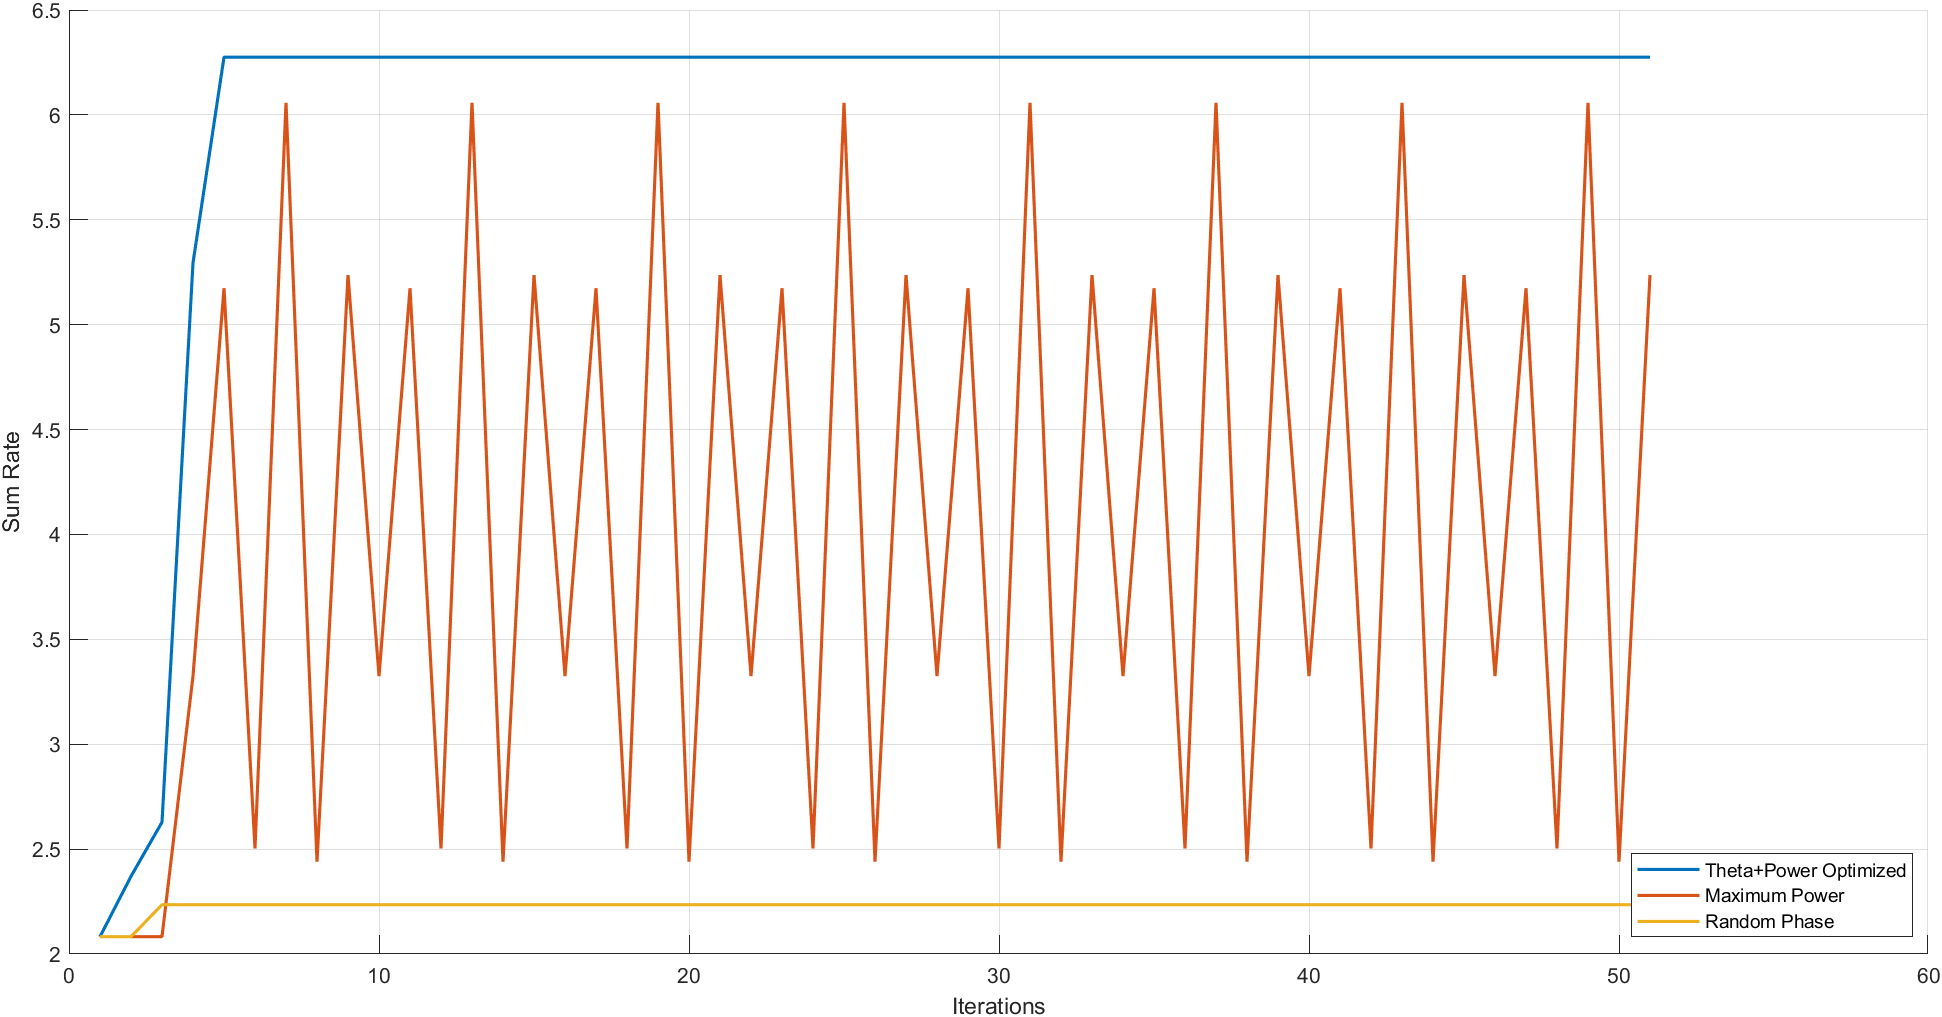
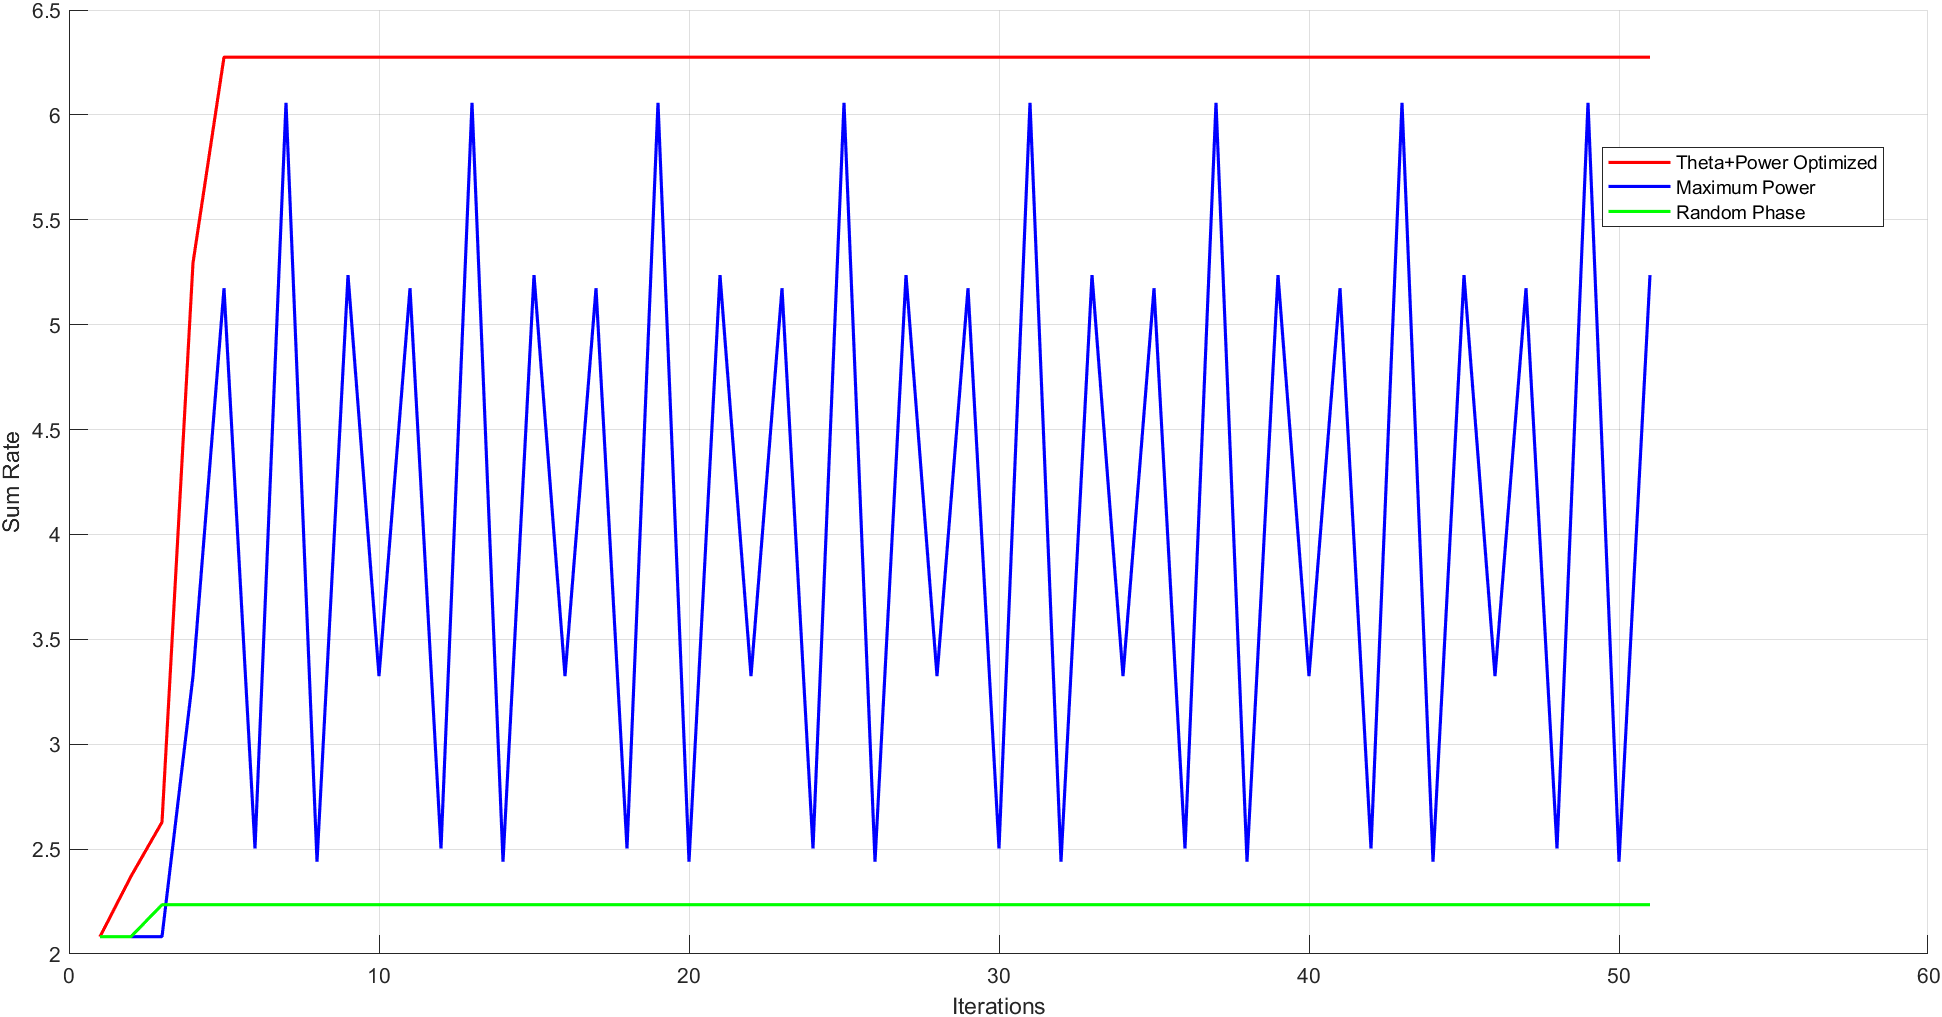
--

diff --git a/emin_vs_sumrate.m b/emin_vs_sumrate.m
@@ -1,14 +1,17 @@
 sr_both=[6.27527 5.85672 4.91803 3.58758 3.42081 3.009 2.67902];
 sr_theta=[2.23 2.20 2.18 2.27 2.19 2.25 2.25];
-sr_power=[6.0579 5.30 4.18963 2.78823 3.0279 2.581 2.25086];
+sr_power=[6.0579 5.30 4.18963 3.0279 2.78823 2.581 2.25086];
+ga=[5.2364 4.7032 3.9210 3.0228 2.7882 2.2509 2.25];
 emin=[100 500 1000 1500 3000 4000 5000];
 hold on
 plot(emin, sr_both,'--or','linewidth',2);
-plot(emin, sr_theta,'--og','linewidth',2)
 plot(emin, sr_power,'--ob','linewidth',2)
+plot(emin, ga,'--ok','linewidth',2)
+plot(emin, sr_theta,'--og','linewidth',2)
+
 grid on
 xticks(emin)
 xticklabels({'100','500','1000','1500','3000','4000','5000'})
 xlabel('emin')
 ylabel('Sum Rate')
-legend('Proposed Algorithm','Random Phase','Maximum Power')
+legend('Proposed Algorithm','Maximum Power','Genetic Algorithm','Random Phase','location','best')

diff --git a/maxpower_vs_sumrate.m b/maxpower_vs_sumrate.m
@@ -1,14 +1,18 @@
 sr_both=[2.80064 4.24896 5.47434 5.88465 6.11297 6.2757];
 sr_theta=[2.23 2.23485 2.23485 2.23485 2.23 2.23485];
 sr_power=[2.20903 4.05508 5.2569 5.66722 5.89553 6.0578];
+ga=[2.4603 3.7729 4.6622 4.9520 5.1183 5.2364];
 pmax=[1 10 50 100 150 200];
 hold on
 plot(pmax, sr_both,'--or','linewidth',2);
-plot(pmax, sr_theta,'--og','linewidth',2)
 plot(pmax, sr_power,'--ob','linewidth',2)
+plot(pmax, ga,'--ok','linewidth',2)
+plot(pmax, sr_theta,'--og','linewidth',2)
+
+
 grid on
 xticks(pmax)
 xticklabels({'1','10','50','100','150','200'})
 xlabel('pmax')
 ylabel('Sum Rate')
-legend('Proposed Algorithm','Random Phase','Maximum Power')
+legend('Proposed Algorithm','Maximum Power','Genetic Algorithm','Random Phase','location','best')

diff --git a/plot_convergence.m b/plot_convergence.m
@@ -1,0 +1,10 @@
+load('constraint')
+hold on    
+plot((final__)/idx,'r',"linewidth",1.5)
+plot((final__power)/idx,'b',"linewidth",1.5)
+plot((final__theta)/idx,'g',"linewidth",1.5)
+sum(x_)/length(x_)
+xlabel("Iterations")
+ylabel("Sum Rate")
+grid on
+legend('Theta+Power Optimized','Maximum Power','Random Phase','location','best')
